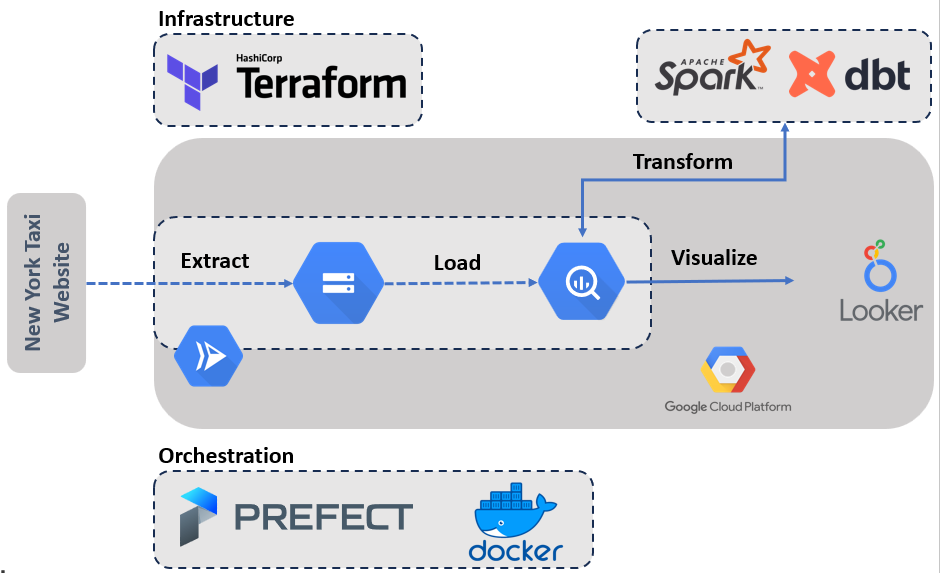
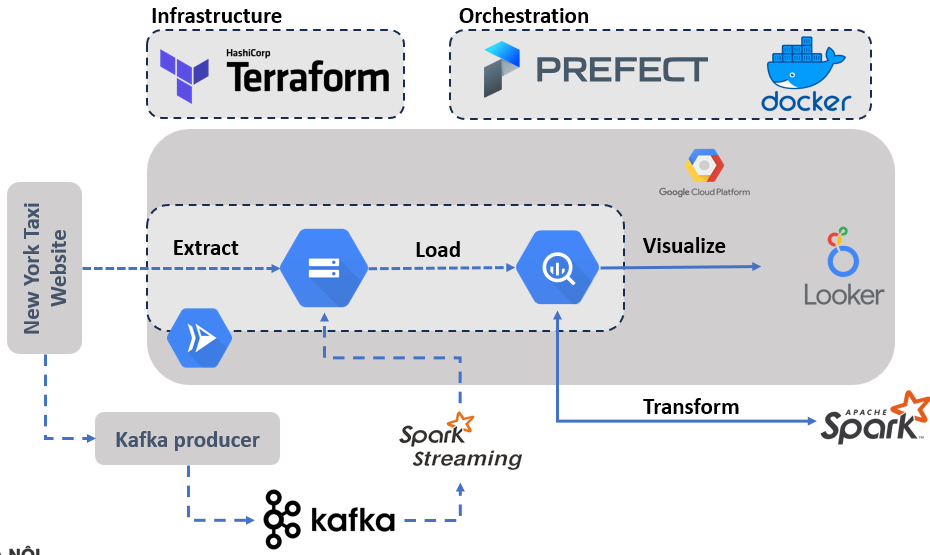
Update 22/12

diff --git a/spark/preprocess.py b/spark/preprocess.py
@@ -1,0 +1,162 @@
+import pyspark
+from pyspark.sql import SparkSession
+from pyspark.sql import functions as F
+from pyspark.sql.types import *
+
+PROJECT_ID = 'bigdata-405714'
+
+
+class DataProcessor:
+    def __init__(self, spark):
+        self.spark = spark
+
+    def load_data(self):
+        input_table = f"{PROJECT_ID}.trips_data_all.trips_data_cleaned"
+        df = self.spark.read.format('bigquery').option('table', input_table).load()
+        return df
+
+    def create_dim_passenger(self, combined_df):
+        # Creating passenger table
+        dim_passenger = combined_df.select('passenger_count'). \
+                            withColumn("passenger_id", F.monotonically_increasing_id()). \
+                            select('passenger_id','passenger_count')
+        return dim_passenger
+        
+    def create_dim_trip(self, combined_df):
+        # Creating trip table
+        dim_trip = combined_df.select('trip_distance', 'pickup_datetime', 'dropoff_datetime'). \
+                        withColumn("trip_distance_id", F.monotonically_increasing_id()). \
+                        withColumn("trip_duration", F.round((F.unix_timestamp("dropoff_datetime") - F.unix_timestamp("pickup_datetime")) / 60, 2)). \
+                        select('trip_distance_id', 'trip_distance', 'trip_duration')
+        return dim_trip
+
+    def create_dim_location(self, combined_df):
+        # Creating location table
+        dim_location = combined_df.select('PULocationID', 'DOLocationID'). \
+                            withColumn("location_id", F.monotonically_increasing_id()). \
+                            withColumn('pickup_location', F.col('PULocationID')). \
+                            withColumn('dropoff_location', F.col('DOLocationID')). \
+                            select('location_id', 'pickup_location', 'dropoff_location')
+        return dim_location
+
+
+    def create_dim_rate(self, combined_df):
+        #Creating rate table
+        rate_code_type = {1: "Standard rate", 2: "JFK", 3: "Newark", 4: "Nassau or Westchester", 5: "Negotiated fare", 6: "Group ride"}
+
+        def map_rate_code(rate_code):
+            return rate_code_type[rate_code]
+
+        map_udf_rate = F.udf(map_rate_code, StringType())
+        
+        dim_rate=combined_df.select('RateCodeID'). \
+                      withColumn('rate_id', F.monotonically_increasing_id()). \
+                      withColumnRenamed('RateCodeID', 'rate_code'). \
+                      withColumn('rate_name', map_udf_rate(F.col('rate_code'))). \
+                      select('rate_id','rate_code','rate_name')
+        return dim_rate
+
+
+    def create_dim_payment_type(self, combined_df):
+        # Creating payment_type table
+        payment_type = {1: "Credit card", 2: "Cash", 3: "No charge", 4: "Dispute", 5: "Unknown", 6: "Voided trip"}
+
+        def map_payment_code(payment_code):
+            return payment_type[payment_code]
+        
+        map_udf_payment = F.udf(map_payment_code, StringType())
+        
+        dim_payment_type=combined_df.select('payment_type').\
+                                    withColumn('payment_id', F.monotonically_increasing_id()).\
+                                    withColumnRenamed('payment_type','payment_code').\
+                                    withColumn('payment_type', map_udf_payment(F.col('payment_code'))).\
+                                    select('payment_id','payment_code','payment_type')
+        return dim_payment_type
+
+
+    def create_dim_datetime(self, combined_df):
+        # Creating datetime table
+        dim_datetime=combined_df.select('pickup_datetime','dropoff_datetime',
+                                F.year('pickup_datetime').alias('pickup_year'),
+                                F.month('pickup_datetime').alias('pickup_month'),
+                                F.dayofmonth('pickup_datetime').alias('pickup_day'),
+                                F.dayofweek('pickup_datetime').alias('pickup_weekday'),
+                                F.year('dropoff_datetime').alias('dropoff_year'),
+                                F.month('dropoff_datetime').alias('dropoff_month'),
+                                F.dayofmonth('dropoff_datetime').alias('dropoff_day'),
+                                F.dayofweek('dropoff_datetime').alias('dropoff_weekday')).\
+                            withColumn('datetime_id', F.monotonically_increasing_id()).\
+                            select('datetime_id','pickup_datetime','pickup_year','pickup_month',
+                                    'pickup_day','pickup_weekday','dropoff_datetime','dropoff_year',
+                                    'dropoff_month','dropoff_day','dropoff_weekday')
+        return dim_datetime
+
+
+
+    def create_fact_table(self, combined_df, dim_passenger, dim_trip, dim_location, dim_rate, dim_payment_type, dim_datetime):
+        # Creating the fact table using Spark SQL joins
+        fact_table = combined_df.join(dim_passenger, on='passenger_count', how='left')\
+            .join(dim_trip, on=['trip_distance', 'pickup_datetime', 'dropoff_datetime'], how='left')\
+            .join(dim_location, on=['PULocationID', 'DOLocationID'], how='left')\
+            .join(dim_rate, on='RateCodeID', how='left')\
+            .join(dim_payment_type, on='payment_type', how='left')\
+            .join(dim_datetime, on=['pickup_datetime', 'dropoff_datetime'], how='left')\
+            .select('VendorID', 'datetime_id', 'passenger_id', 'trip_distance_id', 'rate_id', 'store_and_fwd_flag',
+                    'location_id', 'payment_id', 'fare_amount', 'extra', 'mta_tax', 'tip_amount', 'tolls_amount', 'improvement_surcharge')
+        return fact_table
+    
+
+class Utils:
+    @staticmethod
+    def cache_and_broadcast_tables(spark, dim_tables):
+        # Cache smaller dimension tables
+        for dim_name, dim_df in dim_tables.items():
+            dim_df.cache()
+            print(f"Cached {dim_name} dataframe.")
+
+        # Broadcast smaller tables
+        spark.conf.set("spark.sql.autoBroadcastJoinThreshold", -1)  # Disable auto-broadcast joins
+        for dim_name, dim_df in dim_tables.items():
+            dim_df.createOrReplaceTempView(dim_name)
+            print(f"Broadcasting {dim_name} dataframe.")
+
+    @staticmethod
+    def uncache_tables(dim_tables):
+        # Uncache previously cached dimension tables
+        for dim_df in dim_tables.values():
+            dim_df.unpersist()
+
+
+spark = SparkSession.builder.appName('clean_data').getOrCreate()
+spark.conf.set('temporaryGcsBucket', 'dataproc-temp-asia-east2-285145462114-ku4fpzno')
+data_processor = DataProcessor(spark)
+
+combined_df = data_processor.load_data()
+
+# Create and process dimension tables
+dim_passenger = data_processor.create_dim_passenger(combined_df)
+dim_trip = data_processor.create_dim_trip(combined_df)
+dim_location = data_processor.create_dim_location(combined_df)
+dim_rate = data_processor.create_dim_rate(combined_df)
+dim_payment_type = data_processor.create_dim_payment_type(combined_df)
+dim_datetime = data_processor.create_dim_datetime(combined_df)
+
+# Cache and broadcast tables
+dim_tables = {'dim_passenger': dim_passenger, 'dim_location': dim_location,
+                'dim_trip': dim_trip, 'dim_Rate': dim_rate, 'dim_payment_type': dim_payment_type,
+                'dim_datetime': dim_datetime}
+Utils.cache_and_broadcast_tables(spark, dim_tables)
+
+# Create the fact table using Spark SQL joins
+fact_table = data_processor.create_fact_table(combined_df, dim_passenger, dim_trip, dim_location, dim_rate, dim_payment_type, dim_datetime)
+
+# Upload data to GCS
+dataframe_dict = {
+    'dim_passenger': dim_passenger, 'dim_location': dim_location,
+    'dim_trip': dim_trip, 'dim_Rate': dim_rate, 'dim_payment_type': dim_payment_type,
+    'dim_datetime': dim_datetime, 'fact_table': fact_table
+}
+
+for name, df in dataframe_dict.items():
+    df.write.format('bigquery').option('table', f'{PROJECT_ID}.trips_data_all.{name}').save()
+    print(f"Uploaded {name} dataframe to GCS.")

diff --git a/spark/clean_data.py b/spark/clean_data.py
@@ -1,0 +1,113 @@
+#!/usr/bin/env python
+# coding: utf-8
+
+import argparse
+
+import pyspark
+from pyspark.sql import SparkSession
+from pyspark.sql import functions as F
+
+PROJECT_ID = 'bigdata-405714'
+
+COMMON_COLUMNS = [
+    'VendorID',
+    'pickup_datetime',
+    'dropoff_datetime',
+    'store_and_fwd_flag',
+    'RatecodeID',
+    'PULocationID',
+    'DOLocationID',
+    'passenger_count',
+    'trip_distance',
+    'fare_amount',
+    'extra',
+    'mta_tax',
+    'tip_amount',
+    'tolls_amount',
+    'improvement_surcharge',
+    'total_amount',
+    'payment_type',
+    'congestion_surcharge'
+]
+
+
+def parse_args():
+    parser = argparse.ArgumentParser()
+    # parser.add_argument('--process_all', default=0, type=int)
+    parser.add_argument('--input_table', default='yellow_trips_data', type=str)
+    args = parser.parse_args()
+    return args
+
+
+def process_table(input_table, output, color):
+    # Read data from BigQuery
+    df = spark.read.format('bigquery').option('table', input_table).load()
+
+    # Rename columns
+    if color == 'green':
+        df = df.withColumnRenamed('lpep_pickup_datetime', 'pickup_datetime') .withColumnRenamed('lpep_dropoff_datetime', 'dropoff_datetime')
+    elif color == 'yellow':
+        df = df.withColumnRenamed('tpep_pickup_datetime', 'pickup_datetime').withColumnRenamed('tpep_dropoff_datetime', 'dropoff_datetime')
+
+    # Select common columns
+    df = df.select(COMMON_COLUMNS).withColumn('service_type', F.lit(color))
+
+    # Filter data
+    df = df.dropna(). \
+            filter(df.dropoff_datetime > df.pickup_datetime). \
+            filter(df.passenger_count > 0). \
+            filter(df.fare_amount >= 0). \
+            filter(df.total_amount >= 0). \
+            filter(df.trip_distance >= 0). \
+            filter(df.payment_type.between(1, 6)). \
+            filter(df.VendorID.isin([1, 2])). \
+            filter(df.PULocationID.between(1, 265)). \
+            filter(df.DOLocationID.between(1, 265)). \
+            filter(df.RatecodeID.between(1, 6)). \
+            filter(df.extra >= 0). \
+            filter(df.mta_tax >= 0). \
+            filter(df.tip_amount >= 0). \
+            filter(df.tolls_amount >= 0). \
+            filter(df.improvement_surcharge >= 0). \
+            filter(df.congestion_surcharge >= 0). \
+            dropDuplicates()
+
+    df.write.format('bigquery').option('table', output).save()
+    return df
+
+
+def clean_data(args):
+    if not args.input_table.startswith('all'):
+        # Check color
+        if args.input_table.startswith('green'):
+            color = 'green'
+        elif args.input_table.startswith('yellow'):
+            color = 'yellow'
+        else:
+            raise NotImplementedError(f'Unknown color for table {args.input_table}')
+
+        input_table = f"{PROJECT_ID}.trips_data_all.{args.input_table}"
+        output = f"{PROJECT_ID}.trips_data_all.{args.input_table}_cleaned"
+        process_table(input_table, output, color)
+    else:
+        # Process all tables
+        input_tables = [f'{PROJECT_ID}.trips_data_all.green_trips_data',
+                        f'{PROJECT_ID}.trips_data_all.yellow_trips_data']
+        output_tables = [f'{PROJECT_ID}.trips_data_all.green_trips_data_cleaned',
+                         f'{PROJECT_ID}.trips_data_all.yellow_trips_data_cleaned']
+        colors = ['green', 'yellow']
+        outputs_df = []
+        for input_table, output_table, color in zip(input_tables, output_tables, colors):
+            outputs_df.append(
+                process_table(input_table, output_table, color)
+            )
+        df_result = outputs_df[0].unionAll(outputs_df[1])
+        df_result.write.format('bigquery').option('table', f'{PROJECT_ID}.trips_data_all.trips_data_cleaned').save()
+
+    
+args = parse_args()
+
+spark = SparkSession.builder.appName('clean_data').getOrCreate()
+spark.conf.set('temporaryGcsBucket', 'dataproc-temp-asia-east2-285145462114-ku4fpzno')
+
+clean_data(args)
